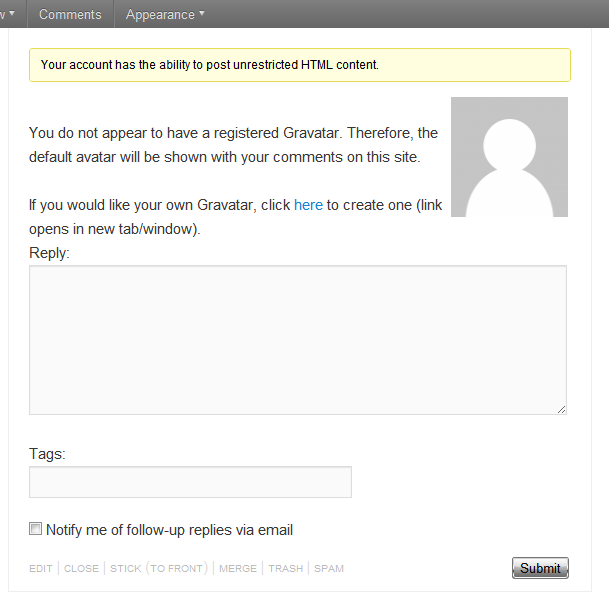
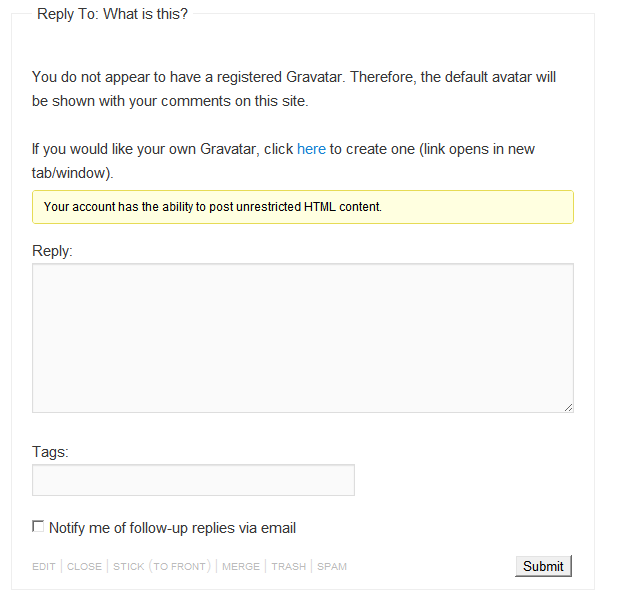
Update bbPress settings since there were changes to bbPress. Also fix language error.

diff --git a/gravatar-signup-encouragment.php b/gravatar-signup-encouragment.php
@@ -589,7 +589,7 @@ function gravatar_signup_encouragement_field_settings_form() {
 			<?php checked( '#submit', $gse_options['below_ms_signup'] ); ?> /> <?php _e( 'Submit button', 'gse_textdomain' ); ?> </label>
 			<br />
 			<label><input name="gravatar_signup_encouragement_settings[below_ms_signup]" class="gse_below_ms_signup_custom_radio" type="radio" value="<?php echo $gse_options['below_ms_signup_custom']; ?>" 
-			<?php checked( $gse_options['below_ms_signup_custom'], $gse_options['below_ms_signup'] ); ?> /> <?php _e( 'Custom ID:', 'gse_textdomain' ); ?></label> <input name="gravatar_signup_encouragement_settings[below_ms_signup_custom]" type="text" class="gse_below_ms_signup_custom_text" value="<?php echo $gse_options['below_ms_signup_custom']; ?>" /> 
+			<?php checked( $gse_options['below_ms_signup_custom'], $gse_options['below_ms_signup'] ); ?> /> <?php _e( 'Custom element:', 'gse_textdomain' ); ?></label> <input name="gravatar_signup_encouragement_settings[below_ms_signup_custom]" type="text" class="gse_below_ms_signup_custom_text" value="<?php echo $gse_options['below_ms_signup_custom']; ?>" /> 
 		</div>
 	<br />
 	<?php } ?>
@@ -598,13 +598,13 @@ function gravatar_signup_encouragement_field_settings_form() {
 	<?php // Show only if bbPress plugin is activated ?>
 	<?php if ( class_exists( 'bbPress' ) ) { ?>
 	<label><input name="gravatar_signup_encouragement_settings[show_bbpress]" class="gse_show_bbpress" type="checkbox" value="1" 
-	<?php checked( '1', $gse_options['show_bbpress'] ); ?> /> <?php _e( 'bbPress reply form', 'gse_textdomain' ); ?> </label> (<a href="<?php echo gravatar_signup_encouragement_screenshot_url( 'screenshot-11.png' ); ?>" title="<?php _e( 'Message shown in a bbPress reply form of a Twenty Eleven theme in line with avatar', 'gse_textdomain' ); ?>" class="thickbox"><?php _e( 'example of how this looks', 'gse_textdomain' ); ?></a>)
+	<?php checked( '1', $gse_options['show_bbpress'] ); ?> /> <?php _e( 'bbPress reply form', 'gse_textdomain' ); ?> </label> (<a href="<?php echo gravatar_signup_encouragement_screenshot_url( 'screenshot-11.png' ); ?>" title="<?php _e( 'Message shown in a bbPress reply form of a Twenty Eleven theme below form title', 'gse_textdomain' ); ?>" class="thickbox"><?php _e( 'example of how this looks', 'gse_textdomain' ); ?></a>)
 		<?php // Elements ?>
 		<div id="gse_below_bbpress" style="margin: 5px 0 0 10px;">
 			<span><?php _e( 'Choose the bbPress reply form element or text field to display the Gravatar Signup Encouragement message below it', 'gse_textdomain' ); ?></span>
 			<br />
-			<label><input name="gravatar_signup_encouragement_settings[below_bbpress]" type="radio" value="#new-post div.avatar" 
-			<?php checked( '#new-post div.avatar', $gse_options['below_bbpress'] ); ?> /> <?php _e( 'Avatar', 'gse_textdomain' ); ?> </label>
+			<label><input name="gravatar_signup_encouragement_settings[below_bbpress]" type="radio" value="#new-post legend:first" 
+			<?php checked( '#new-post legend:first', $gse_options['below_bbpress'] ); ?> /> <?php _e( 'Form title', 'gse_textdomain' ); ?> </label>
 			<br />
 			<label><input name="gravatar_signup_encouragement_settings[below_bbpress]" type="radio" value="#bbp_topic_tags" 
 			<?php checked( '#bbp_topic_tags', $gse_options['below_bbpress'] ); ?> /> <?php _e( 'Topic tags', 'gse_textdomain' ); ?> </label>
@@ -616,7 +616,7 @@ function gravatar_signup_encouragement_field_settings_form() {
 			<?php checked( '#new-post button', $gse_options['below_bbpress'] ); ?> /> <?php _e( 'Submit button', 'gse_textdomain' ); ?> </label>
 			<br />
 			<label><input name="gravatar_signup_encouragement_settings[below_bbpress]" class="gse_below_bbpress_custom_radio" type="radio" value="<?php echo $gse_options['below_bbpress_custom']; ?>" 
-			<?php checked( $gse_options['below_bbpress_custom'], $gse_options['below_bbpress'] ); ?> /> <?php _e( 'Custom ID:', 'gse_textdomain' ); ?></label> <input name="gravatar_signup_encouragement_settings[below_bbpress_custom]" type="text" class="gse_below_bbpress_custom_text" value="<?php echo $gse_options['below_bbpress_custom']; ?>" /> 
+			<?php checked( $gse_options['below_bbpress_custom'], $gse_options['below_bbpress'] ); ?> /> <?php _e( 'Custom element:', 'gse_textdomain' ); ?></label> <input name="gravatar_signup_encouragement_settings[below_bbpress_custom]" type="text" class="gse_below_bbpress_custom_text" value="<?php echo $gse_options['below_bbpress_custom']; ?>" /> 
 		</div>
 	<br />
 	<?php } ?>
